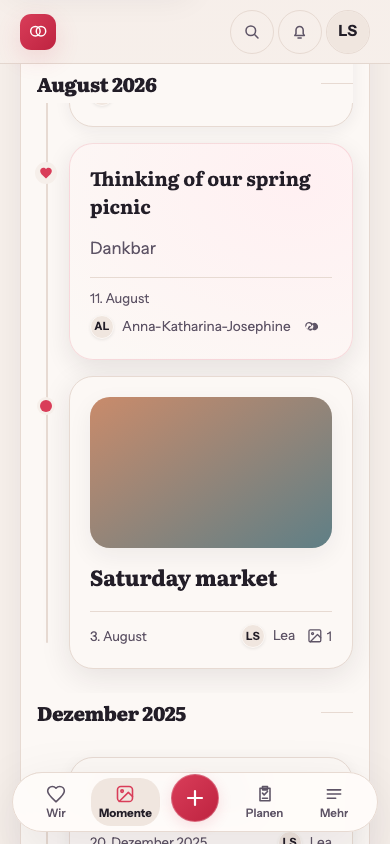
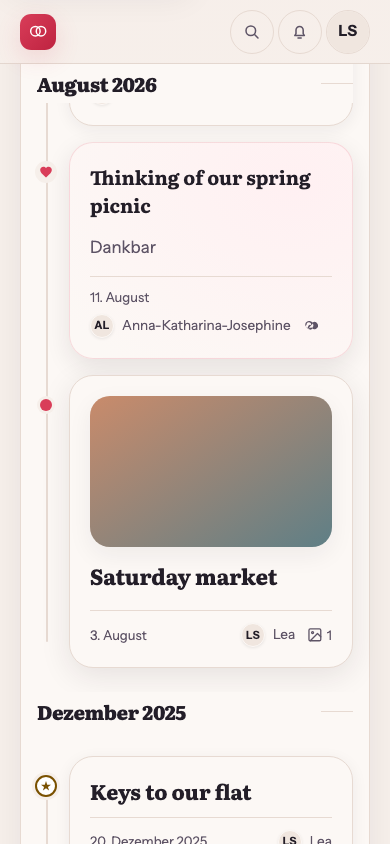
docs: refresh #969 scroll evidence after integrating #970
Rebased onto 254fb79c. Refreshes the two month-heading scroll captures
that #970's hide-on-scroll bar made stale, adds integrated captures
(bar hidden/revealed with pinned heading, Timeline end, keyboard focus,
dark, Expanded, 320 px, 200% text) and records the bottom-bar clearance
decision and the shell limitation at extreme text scaling.

Refs #969

diff --git a/docs/product/design/r2-969-timeline-card-hierarchy.md b/docs/product/design/r2-969-timeline-card-hierarchy.md
@@ -5,7 +5,7 @@
 
 ## Baseline and boundaries
 
-Branch `feat/969-timeline-card-hierarchy` starts at `d61542d7` (`origin/main`, R2 merged). The work stayed in a separate worktree because R3 / Planen was being built in parallel in the primary checkout. No Planen file, route, stylesheet or behaviour was changed. Backend, data model, Timeline ordering, filters, search, pagination, create flow and return continuity are untouched. Discover keeps its own cards; it is not part of this issue.
+Branch `feat/969-timeline-card-hierarchy` started at `d61542d7` (`origin/main`, R2 merged) and was rebased without conflicts onto `254fb79c` (`origin/main` with #976 / #970, context-aware hide-on-scroll for the floating bottom bar). The work stayed in a separate worktree because R3 / Planen was being built in parallel in the primary checkout. No Planen file, route, stylesheet or behaviour was changed. Backend, data model, Timeline ordering, filters, search, pagination, create flow and return continuity are untouched. Discover keeps its own cards; it is not part of this issue.
 
 ## Hierarchy
 
@@ -35,12 +35,14 @@ The shared app bar is sticky, 95% opaque, and its real height varies: 64 CSS px 
 1. **Pinned heading, measured offset.** `useStickyTimelineMonths` measures the rendered bar with a `ResizeObserver` and pins each Timeline month heading directly below it on an opaque band. The next month hands over by pushing it out. If the bar takes more than 20% of the viewport (large text or zoom), pinning is turned off and headings stay ordinary content, so reading space is never lost to a second band. Focused cards get a matching `scroll-margin-top`, so keyboard focus is never hidden under either band.
 2. **Opaque bar over Momente.** While month-grouped Momente content is on screen, the bar is backed by the page background, so a handed-over heading can't show through it. The bar's tint, height and behaviour are unchanged, and other destinations (including Planen) keep their translucent bar. This is verified in the spec.
 
+3. **Bottom bar clearance (with #970).** The floating bottom bar hides on deliberate downward scrolling and is revealed after a small upward scroll. Pinning is independent of it: the pinned heading keeps its position while the bar hides or reveals, and the two never overlap. A keyboard focus move that scrolls only a few pixels can leave the bar revealed, which let it cover most of a focused card near the bottom. Timeline card links therefore get `scroll-margin-bottom` equal to the shell's `--shell-floating-nav-footprint` wherever the bottom shell exists (`@container product-shell (max-width: 52.4375rem)`). Without it, the integrated spec fails (focused card bottom 844 px against a revealed bar top of 772 px); with it, the card clears the bar.
+
 The year-detail archive uses the same month sections and gets the opaque bar, but its headings stay ordinary content. Android has no top app bar over the Timeline (content starts below the system inset), so this problem does not exist there.
 
 ## Validation
 
 - **Web:** `npm run typecheck`, `npm run lint` (0 warnings, matching the baseline), `npm run format:check`, `npm run tokens:check` and `npm run build` pass. `npx vitest run`: 867 passed, 1 pre-existing skip. New `StoryListHierarchy.test.tsx`; `StoryList.test.tsx`/`storyPresentation.test.ts` updated.
-- **Web browser:** the new `r2-timeline-card-hierarchy.spec.ts` covers no pills, no stripe, the kind nodes, named icons, first child at the card padding, footer and title containment at 390/320 px and 200% text, pinned and handed-over headings, the zoom fallback, focus clearance, Planen's bar unchanged, and axe at WCAG 2.2 AA in light and dark. The existing Timeline, Story years, Discover, featured metadata, i18n names, R2 evidence and F2 task-boundary specs were re-run one file at a time with `--workers=1`. `story-timeline-attachment-meta.spec.ts` now asserts the wrapping row instead of the old stacked column.
+- **Web browser:** the new `r2-timeline-card-hierarchy.spec.ts` covers the #970 integration (bar hides on scroll-down and reveals on scroll-up while the heading stays pinned without overlap, content at the end of the Timeline and a keyboard-focused card clear of a revealed bar, dark, Expanded without a bottom bar, 320 px and 200% text without collisions or overflow) as well as no pills, no stripe, the kind nodes, named icons, first child at the card padding, footer and title containment at 390/320 px and 200% text, pinned and handed-over headings, the zoom fallback, focus clearance, Planen's bar unchanged, and axe at WCAG 2.2 AA in light and dark. The existing Timeline, Story years, Discover, featured metadata, i18n names, R2 evidence and F2 task-boundary specs were re-run one file at a time with `--workers=1`. `story-timeline-attachment-meta.spec.ts` now asserts the wrapping row instead of the old stacked column.
 - **Android:** `StoryScreenSemanticsTest` asserts no printed kind or visibility label, named kind glyphs merged into the openable card, shared visibility only on Heart Moments, a named photo count, the author without prose, and (with native graphics) a long author name that wraps inside the card at 320 dp and 2× font. Full `testDebugUnitTest`, `lintDebug` and `assembleDebug` pass; see the PR for counts.
 - **Language audits:** `tools/ci/engineering_language_audit.py` and `tools/ci/documentation_language_audit.py` pass.
 
@@ -49,11 +51,13 @@ The year-detail archive uses the same month sections and gets the opaque bar, bu
 `evidence/r2-969/before/` was captured on unmodified `origin/main` and `evidence/r2-969/after/` on this branch, with identical fixtures: a long partner name, 3/1/0 photos, all three kinds, three months.
 
 - Web `01` full Timeline 390 px, `12` Expanded 1280 px, `02`–`05` Memory, Memory with full metadata, Heart Moment and Milestone crops (2×), `06` 320 px, `07`/`08` 200% text, `09`/`10` month heading (before: crossing the bar; after: pinned and handed over), `11` dark. On `origin/main` the spec stops at its first failed check, so `before/` has no `08` or `10`.
+- Integrated with #970 (captured on the rebased branch): `09`/`10` refreshed because scrolling now hides the bottom bar, plus `13` bar hidden with heading pinned, `14` bar revealed with heading unchanged, `15` end of Timeline with revealed bar, `16` keyboard focus clear of the bar, `17` dark, `18` Expanded 1280 px (no bottom bar), `19` 320 px, `20` 320 px at 200% text. The other Web evidence was not affected by #970: it was captured at the top of the page (full-page) or as centred card crops, and was left unchanged.
 - Android `android-timeline-{390-light,390-dark,320-light,320-font-200pct}.png`: Robolectric native-graphics renders of the production `StoryScreen` composable, in `de-DE`.
 
 ## Known limitations
 
 - Android evidence is composable renders, not a device or emulator session. No device was attached, and the debug proof activity only provides Memories. Card composition and semantics are what changed, and both are covered, but no on-device TalkBack pass was recorded.
 - On Web at 320 px with 200% root text (about 160 px of layout width, beyond the WCAG 1.4.10 reflow target), long words in titles, dates and the existing month heading break mid-word as a last resort. Nothing clips or overflows horizontally (`08-timeline-320-200pct-text-full.png`).
+- At 320 px with 200% root text, the shell's top bar (189 px) and floating bottom bar take most of a 640 px viewport, and the bottom bar's labels truncate (`20-integrated-320-200pct-text-bar-revealed.png`). Pinning correctly falls back, so a month heading scrolls under the top bar as ordinary content there. The shell bars are owned by the app shell and #970, not by this issue.
 - At 320 dp with 2× font, Android may force-split a single very long hyphenated surname. This is the platform line breaker's last resort; nothing overflows.
 - Web announces the kind for every card, including `Erinnerung:` for Memories (the existing link-name contract). Android names only the special kinds through their glyphs.
